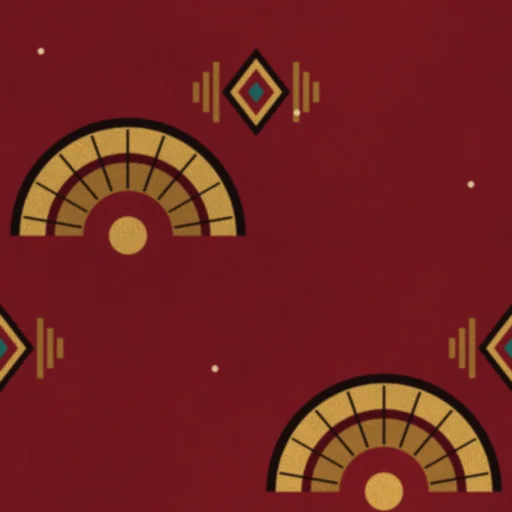
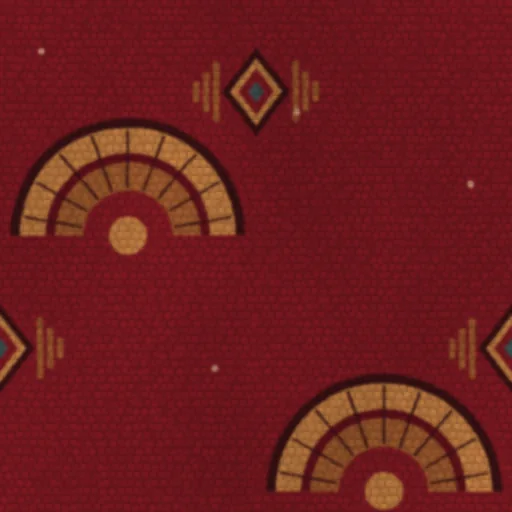
Weave the runner as wool: pile, soft motifs, a worn lane, a fringe
The runner read as a printed graphic laid on the floor: flat saturated
red, mustard fans and a teal lozenge with crisp vector edges, a black
border with thin gold zigzags, no tuft structure, no nap, no wear and a
fringe of striped gradients.

The field and border tiles are re-baked as wool. The motifs' edges
wander by a tuft's width and soften, their contrast against the ground
drops by a third, and a cut pile lies over everything: tufts in woven
rows, each leaning and standing its own height, lit on the side the nap
leans from, with slow patches where the pile was brushed each way. Down
the centre lane the traffic has flattened the pile, and the far end
carries a baked knotted fringe (carpet-fringe) hanging away from the
rug.

diff --git a/static/css/palace-room.css b/static/css/palace-room.css
@@ -838,6 +838,24 @@ html[data-entered="no"] #entrance.night.house ~ #hall .st-fan.on[data-state="ope
   --course-blend: multiply;
   --course-strip: color-mix(in srgb, var(--lead-2) 75%, transparent);
 }
+/* The runner's wool (the tiles are baked with a cut pile and softened
+   motifs, AR-11): down its centre lane the traffic has flattened the pile,
+   which then gives back more of the room's light and less of its dye, and
+   the far end carries a knotted fringe, the warp ends tied in bunches under
+   the heading, hanging away from the rug. */
+.fl-runner::before {
+  background-image:
+    linear-gradient(90deg, transparent 24%, rgba(255, 236, 214, 0.075) 40%, rgba(255, 236, 214, 0.075) 60%, transparent 76%),
+    linear-gradient(to top, rgba(0, 0, 0, 0.35) 0%, transparent 30%, rgba(255, 220, 170, 0.10) 100%),
+    linear-gradient(var(--rug-veil), var(--rug-veil));
+}
+.fl-runner::after {
+  top: calc(var(--fh, 320px) * -0.085); height: calc(var(--fh, 320px) * 0.085);
+  background: url('/static/assets/tex/carpet-fringe.webp') 0 0 / auto 100% repeat-x;
+  transform: scaleY(-1);
+  opacity: 1;
+}
+:root[data-theme="onyx"] .fl-runner::after { filter: brightness(0.62); }
 /* The inlays: cut stone with its own figure, under the floor's wax. HTML
    layers over the inlay's SVG (the circle is r 474 of 1000 on the
    medallion, 190 of 400 on a roundel), so they raster once and stay. */

diff --git a/scripts/materials.py b/scripts/materials.py
@@ -128,6 +128,14 @@ def save(name, rgb, q=84):
     return path
 
 
+def save_rgba(name, arr, q=84):
+    os.makedirs(OUT, exist_ok=True)
+    img = Image.fromarray(np.clip(arr, 0, 255).astype(np.uint8), "RGBA")
+    path = os.path.join(OUT, name + ".webp")
+    img.save(path, "WEBP", quality=q, method=6)
+    return path
+
+
 def save_gray(name, g, q=84):
     os.makedirs(OUT, exist_ok=True)
     img = Image.fromarray(np.clip(g * 255, 0, 255).astype(np.uint8), "L").convert("RGB")
@@ -604,10 +612,92 @@ def mosaic_gold(n=512, cell=16, seed=151):
     return rgb
 
 
+def _pile(h, w, seed, pitch=8):
+    """Cut pile seen from above, as a brightness map about 1. The tufts are
+    set in woven rows, each row half a tuft along from the last (the weave),
+    but no tuft stands exactly on its mark: each leans its own way, has its
+    own height, and frays into its neighbours, so the rows show only as a
+    faint grain and never as a grid (a grid shimmers when the floor's
+    perspective shrinks it). The top of a tuft catches the light on the side
+    the nap leans from, and the whole lies in slow patches where the pile was
+    brushed one way or the other. Periodic when w and h are multiples of the
+    pitch and the row count is even."""
+    rng = np.random.default_rng(seed)
+    rows, cols = h // pitch, w // pitch
+    y, x = np.mgrid[0:h, 0:w].astype(np.float64) + 0.5
+    row = np.floor(y / pitch)
+    xo = x + (row % 2) * pitch / 2
+    ri = row.astype(int) % rows
+    ci = np.floor(xo / pitch).astype(int) % cols
+    jx = rng.uniform(-0.22, 0.22, (rows, cols))[ri, ci]
+    jy = rng.uniform(-0.18, 0.18, (rows, cols))[ri, ci]
+    tall = rng.uniform(0.6, 1.4, (rows, cols))[ri, ci]
+    fx = (xo % pitch) / pitch - 0.5 - jx
+    fy = (y % pitch) / pitch - 0.5 - jy
+    dome = np.clip(1 - (fx * fx + (fy + 0.08) ** 2) * 3.0, 0, 1)
+    lit = np.clip(0.5 - fy * 1.4, 0, 1)
+    tuft = 0.92 + 0.11 * dome * tall + 0.04 * lit * dome
+    n = max(h, w)
+    lay = fbm(n, seed + 1, 2.1, (1.0, 1.8))[:h, :w] - 0.5
+    fuzz = fbm(n, seed + 2, 0.4)[:h, :w] - 0.5
+    return tuft * (1 + lay * 0.16 + fuzz * 0.20)
+
+
+def _wool(rgb, ground, seed):
+    """Turn a drawn pattern into wool. A knotted pile cannot hold a vector
+    edge: the motif's edges are wandered a tuft's width by noise and
+    softened, its contrast against the ground is taken down by a third (a
+    dyed yarn is never as far from its neighbour as a printed ink), and the
+    pile is laid over all of it."""
+    from scipy.ndimage import gaussian_filter, map_coordinates
+    h, w = rgb.shape[:2]
+    n = max(h, w)
+    yy, xx = np.mgrid[0:h, 0:w].astype(np.float64)
+    wx = (fbm(n, seed + 3, 1.2)[:h, :w] - 0.5) * 3.0
+    wy = (fbm(n, seed + 4, 1.2)[:h, :w] - 0.5) * 3.0
+    out = np.empty_like(rgb)
+    for c in range(3):
+        out[..., c] = map_coordinates(rgb[..., c], [yy + wy, xx + wx], order=1, mode="grid-wrap")
+    out = gaussian_filter(out, (1.3, 1.3, 0), mode="wrap")
+    g = np.array(ground, dtype=np.float64)[None, None, :]
+    out = g + (out - g) * 0.68
+    return out * _pile(h, w, seed + 5)[..., None]
+
+
+def carpet_fringe(w=96, h=48, seed=181):
+    """The knotted fringe at the runner's far end, as RGBA: the warp ends of
+    the weave, knotted in bunches under the heading and hanging free below
+    it in natural wool, each tassel its own length and a little crooked."""
+    from PIL import ImageDraw
+    S = 4
+    rng = np.random.default_rng(seed)
+    img = Image.new("RGBA", (w * S, h * S), (0, 0, 0, 0))
+    d = ImageDraw.Draw(img)
+    WOOL, SHADE, KNOT = (226, 206, 164, 255), (168, 142, 100, 255), (196, 170, 124, 255)
+    # the heading: the last weft rows the warp is knotted through
+    d.rectangle([0, 0, w * S, 6 * S], fill=(120, 34, 36, 255))
+    d.rectangle([0, 6 * S, w * S, 8 * S], fill=(70, 18, 20, 255))
+    pitch = 8
+    for k in range(w // pitch):
+        cx = k * pitch + pitch / 2
+        ln = h - 12 - rng.uniform(0, 8)
+        lean = rng.uniform(-1.4, 1.4)
+        for j in range(-2, 3):
+            x0 = cx + j * 1.1
+            col = SHADE if j in (-2, 2) else WOOL
+            d.line([(x0 * S, 11 * S), ((x0 + lean + j * 0.5) * S, (11 + ln) * S)], fill=col, width=int(1.2 * S))
+        d.ellipse([(cx - 2.6) * S, 7.5 * S, (cx + 2.6) * S, 12.5 * S], fill=KNOT)
+    arr = np.asarray(img.resize((w, h), Image.LANCZOS), dtype=np.float64)
+    tuft = fbm(max(w, h), seed + 1, 0.4)[:h, :w] - 0.5
+    arr[..., :3] *= (1 + tuft * 0.22)[..., None]
+    return arr
+
+
 def carpet(n=512, seed=161):
     """The runner: a picture-palace wool carpet, fans and stepped streamers on
-    claret, gold and black, one teal accent. Drawn at 4x, softened, then
-    given pile so it reads as wool rather than print."""
+    claret, gold and black, one teal accent. Drawn at 4x, then made wool
+    (_wool): wandered, softened, taken down a third, and given a woven cut
+    pile, so it reads as a carpet and not as a print (AR-11)."""
     from PIL import ImageDraw
     S = 4
     CLARET, DEEP, GOLD, OLDG, BLACK, TEAL, CREAM = (
@@ -655,11 +745,7 @@ def carpet(n=512, seed=161):
                 cx, cy = ox + n * px, oy + n * py
                 d.ellipse([(cx - 3.2) * S, (cy - 3.2) * S, (cx + 3.2) * S, (cy + 3.2) * S], fill=CREAM)
     rgb = np.asarray(img.resize((n, n), Image.LANCZOS), dtype=np.float64)
-    from scipy.ndimage import gaussian_filter
-    rgb = gaussian_filter(rgb, (0.9, 0.9, 0), mode="wrap")
-    tuft = fbm(n, seed, 0.3) - 0.5
-    lay = fbm(n, seed + 1, 1.6) - 0.5
-    return rgb * (1 + tuft * 0.28 + lay * 0.12)[..., None]
+    return _wool(rgb, CLARET, seed)
 
 
 def carpet_border(w=96, h=384, seed=171):
@@ -683,8 +769,7 @@ def carpet_border(w=96, h=384, seed=171):
         pts += [(w - 28 - j * 10, y0 + step / 2 + (j + 1) * step / 5) for j in range(4, -1, -1)]
         d.line([(px * S, py * S) for px, py in pts], fill=GOLD, width=int(3.2 * S))
     rgb = np.asarray(img.resize((w, h), Image.LANCZOS), dtype=np.float64)
-    tuft = fbm(max(w, h), seed, 0.3)[:h, :w] - 0.5
-    return rgb * (1 + tuft * 0.28)[..., None]
+    return _wool(rgb, (22, 12, 12), seed)
 
 
 PALACE = [
@@ -696,6 +781,7 @@ PALACE = [
     ("mosaic-gold", mosaic_gold, "rgb"),
     ("carpet-field", carpet, "rgb"),
     ("carpet-border", carpet_border, "rgb"),
+    ("carpet-fringe", carpet_fringe, "rgba"),
 ]
 
 
@@ -725,7 +811,10 @@ def main():
         bakes = PALACE
     for name, fn, kind in bakes:
         data = fn()
-        path = save(name, data) if kind == "rgb" else save_gray(name, data)
+        if kind == "rgba":
+            path = save_rgba(name, data)
+        else:
+            path = save(name, data) if kind == "rgb" else save_gray(name, data)
         written.append(path)
         print("%-24s %6.1f KB" % (name, os.path.getsize(path) / 1024))
     if "--sheet" in sys.argv:
